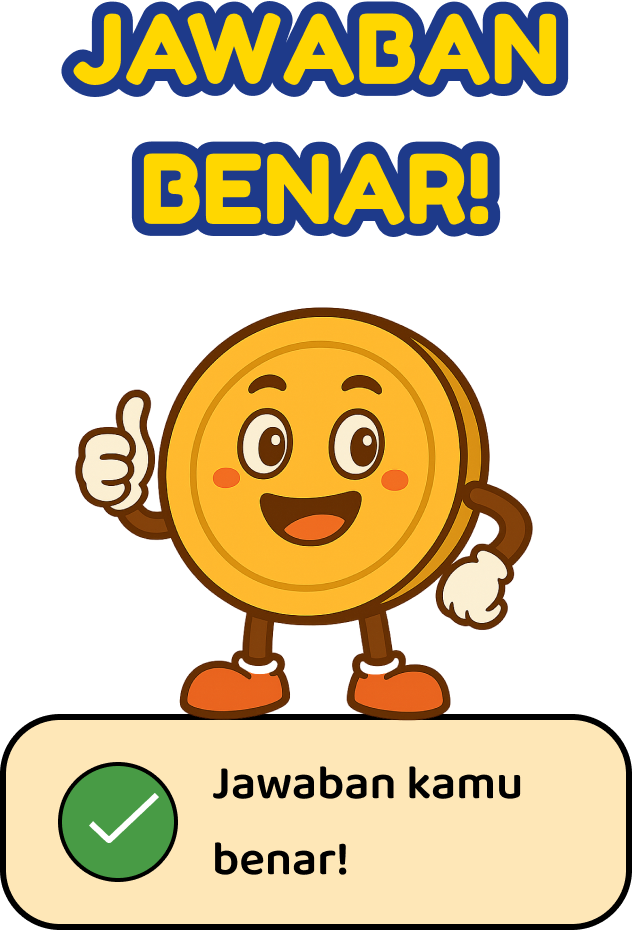
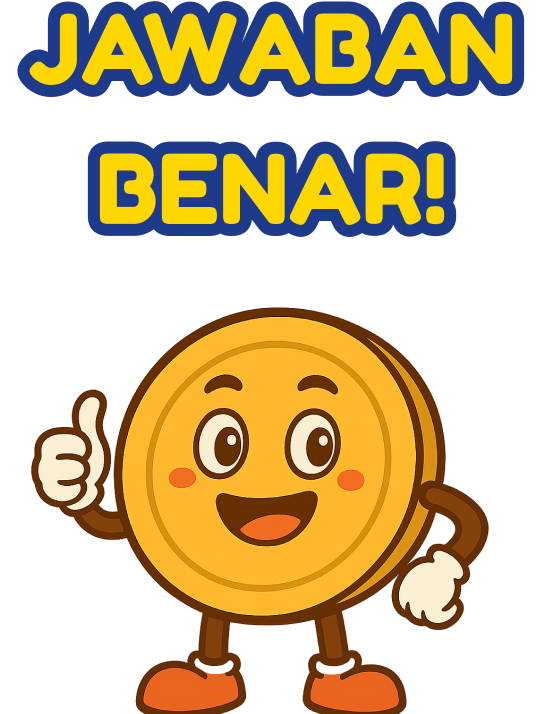
mengedit halaman benar dan halaman salah

diff --git a/lib/benar_page.dart b/lib/benar_page.dart
@@ -1,0 +1,113 @@
+import 'package:flutter/material.dart';
+
+class BenarPage extends StatelessWidget {
+  const BenarPage({super.key});
+
+  @override
+  Widget build(BuildContext context) {
+    return Scaffold(
+      backgroundColor: const Color(0xFF5AA2D5), // Warna biru dari background
+      body: Stack(
+        children: [
+          // Background awan
+          Positioned.fill(
+            child: Image.asset(
+              'assets/images/pencapaian/background.png',
+              fit: BoxFit.cover,
+            ),
+          ),
+
+          // Konten utama
+          SafeArea(
+            child: Center(
+              child: Column(
+                mainAxisAlignment: MainAxisAlignment.center,
+                children: [
+                  const SizedBox(height: 30),
+                  // Tombol Selanjutnya di kanan atas
+                  Align(
+                    alignment: Alignment.topRight,
+                    child: Padding(
+                      padding: const EdgeInsets.symmetric(horizontal: 20, vertical: 10),
+                      child: ElevatedButton(
+                        onPressed: () {
+                          // Ganti halaman sesuai kebutuhan
+                        },
+                        style: ElevatedButton.styleFrom(
+                          backgroundColor: const Color(0xFFF7941F), // Oranye
+                          shape: RoundedRectangleBorder(
+                            borderRadius: BorderRadius.circular(12),
+                            side: const BorderSide(color: Colors.black, width: 1.5),
+                          ),
+                          padding: const EdgeInsets.symmetric(horizontal: 30, vertical: 8),
+                          elevation: 4,
+                        ),
+                        child: const Text(
+                          'Selanjutnya',
+                          style: TextStyle(
+                            fontSize: 16,
+                            fontWeight: FontWeight.bold,
+                            color: Colors.white,
+                            shadows: [
+                              Shadow(
+                                offset: Offset(1, 1),
+                                color: Colors.black38,
+                                blurRadius: 1,
+                              ),
+                            ],
+                          ),
+                        ),
+                      ),
+                    ),
+                  ),
+
+                  const SizedBox(height: 50),
+
+                  // Gambar koin Si Rupi senang
+                  Image.asset(
+                    'assets/images/benar_salah/benar.png',
+                    height: 400,
+                  ),
+
+                  const SizedBox(height: 0),
+
+                  // Kotak notifikasi jawaban benar
+                  Container(
+                    width: 300, // Ubah sesuai kebutuhan
+                    height: 80, // Ubah sesuai kebutuhan
+                    padding: const EdgeInsets.all(14),
+                    margin: const EdgeInsets.symmetric(horizontal: 32),
+                    decoration: BoxDecoration(
+                      color: const Color(0xFFFFF0C2),
+                      borderRadius: BorderRadius.circular(16),
+                      border: Border.all(color: Colors.black, width: 1.5),
+                    ),
+                    child: Row(
+                      mainAxisAlignment: MainAxisAlignment.center,
+                      children: const [
+                        Icon(Icons.check_circle, color: Colors.green, size: 30),
+                        SizedBox(width: 10),
+                        Flexible(
+                          child: Text(
+                            'Jawaban kamu benar!',
+                            style: TextStyle(
+                              fontSize: 20,
+                              fontWeight: FontWeight.bold,
+                              color: Colors.black87,
+                            ),
+                          ),
+                        ),
+                      ],
+                    ),
+                  ),
+
+                  const Spacer(),
+                ],
+              ),
+            ),
+          ),
+        ],
+      ),
+    );
+  }
+}

diff --git a/lib/salah_page.dart b/lib/salah_page.dart
@@ -1,0 +1,114 @@
+import 'package:flutter/material.dart';
+
+class SalahPage extends StatelessWidget {
+  const SalahPage({super.key});
+
+  @override
+  Widget build(BuildContext context) {
+    return Scaffold(
+      backgroundColor: const Color(0xFF5AA2D5), // Warna biru dari background
+      body: Stack(
+        children: [
+          // Background awan
+          Positioned.fill(
+            child: Image.asset(
+              'assets/images/pencapaian/background.png',
+              fit: BoxFit.cover,
+            ),
+          ),
+
+          // Konten utama
+          SafeArea(
+            child: Center(
+              child: Column(
+                mainAxisAlignment: MainAxisAlignment.center,
+                children: [
+                  const SizedBox(height: 30),
+                  // Tombol Selanjutnya di kanan atas
+                  Align(
+                    alignment: Alignment.topRight,
+                    child: Padding(
+                      padding: const EdgeInsets.symmetric(horizontal: 20, vertical: 10),
+                      child: ElevatedButton(
+                        onPressed: () {
+                          // Ganti halaman sesuai kebutuhan
+                        },
+                        style: ElevatedButton.styleFrom(
+                          backgroundColor: const Color(0xFFF7941F), // Oranye
+                          shape: RoundedRectangleBorder(
+                            borderRadius: BorderRadius.circular(12),
+                            side: const BorderSide(color: Colors.black, width: 1.5),
+                          ),
+                          padding: const EdgeInsets.symmetric(horizontal: 30, vertical: 8),
+                          elevation: 4,
+                        ),
+                        child: const Text(
+                          'Selanjutnya',
+                          style: TextStyle(
+                            fontSize: 16,
+                            fontWeight: FontWeight.bold,
+                            color: Colors.white,
+                            shadows: [
+                              Shadow(
+                                offset: Offset(1, 1),
+                                color: Colors.black38,
+                                blurRadius: 1,
+                              ),
+                            ],
+                          ),
+                        ),
+                      ),
+                    ),
+                  ),
+
+                  const SizedBox(height: 50),
+
+                  // Gambar koin Si Rupi senang
+                  Image.asset(
+                    'assets/images/benar_salah/salah.png',
+                    height: 400,
+                  ),
+
+                  const SizedBox(height: 0),
+
+                  // Kotak notifikasi jawaban salah
+                  Container(
+                    width: 300, // Lebar kotak
+                    height: 80, // Tinggi kotak
+                    padding: const EdgeInsets.all(14),
+                    margin: const EdgeInsets.symmetric(horizontal: 32),
+                    decoration: BoxDecoration(
+                      color: const Color(0xFFFFF0C2),
+                      borderRadius: BorderRadius.circular(16),
+                      border: Border.all(color: Colors.black, width: 1.5),
+                    ),
+                    child: Row(
+                      mainAxisAlignment: MainAxisAlignment.center,
+                      children: const [
+                        Icon(Icons.cancel, color: Colors.red, size: 30),
+                        SizedBox(width: 10),
+                        Flexible(
+                          child: Text(
+                            'Jawaban kamu salah!',
+                            style: TextStyle(
+                              fontSize: 20,
+                              fontWeight: FontWeight.bold,
+                              color: Colors.black87,
+                            ),
+                          ),
+                        ),
+                      ],
+                    ),
+                  ),
+
+
+                  const Spacer(),
+                ],
+              ),
+            ),
+          ),
+        ],
+      ),
+    );
+  }
+}

diff --git a/lib/pencapaian_page.dart b/lib/pencapaian_page.dart
@@ -6,7 +6,7 @@ class PencapaianPage extends StatelessWidget {
   @override
   Widget build(BuildContext context) {
     return Scaffold(
-      backgroundColor: const Color(0xFF77BDFC),
+      backgroundColor: const Color(0xFF5196D0),
       body: Stack(
         children: [
           // Background
